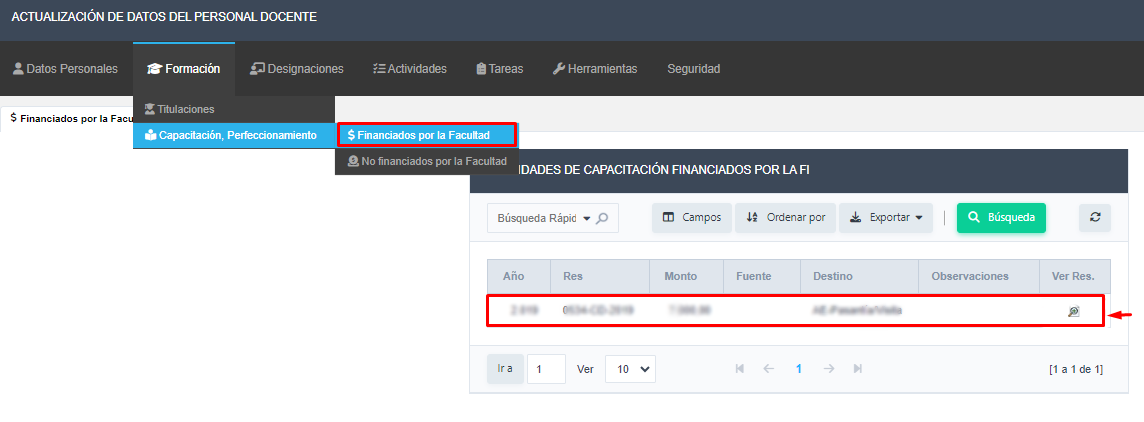
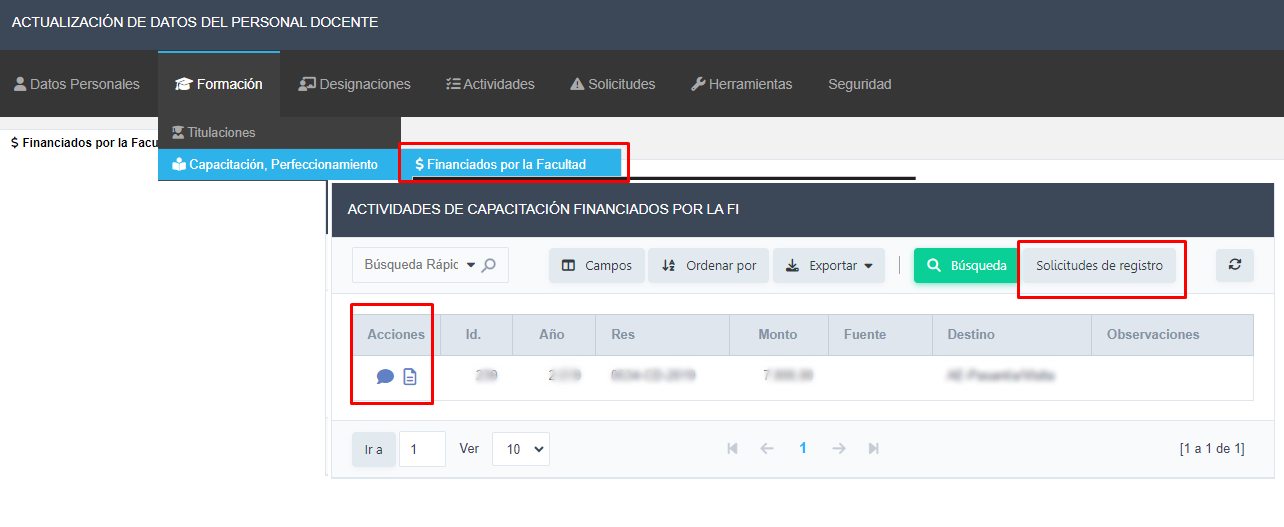
Cambios solicitados 1er avance

diff --git a/designaciones.html b/designaciones.html
@@ -19,17 +19,24 @@
         </li>
 
         <li>
-            <p>Para editar datos de una designación hacer clic en el icono de Edición <img src="images/btn_edicion.png" alt="Botón de edición">y visualizara la siguiente ventana</p>
+            <p>En la columna Acciones: Con el icono 
+                <img src="images/btn_solicitar_cambios.png" alt="botón solicitar cambios"> 
+                puede iniciar la gestión para solicitar cambios del Ítem en cuestión. y con el icono 
+                <img src="images/btn_edicion.png" alt="Botón de edición"> 
+                podrá editar la información  se visualizará la siguiente ventana
+
+            </p>
             <img src="images/designacion_editar.png" alt="">
         </li>
-        <li>
-            <p>Se deben registrar las horas dedicadas a cada actividad. Según Res. 0329-CD-2003 "Reglamento para la asignación y control de tareas docentes”. Si necesita información sobre qué datos corresponde a los campos: Docencia, Investigación, Gestión, Extensión, Tesis, Tutorías u otras operaciones, haga clic en el icono de ayuda. En Total de hs. visualizara la sumatoria de horas de los campos anteriores</p>
-            <img src="images/designaciones_horas.png" alt="">
-            <p>En las pestañas <em>"Situación", "Asignaturas", "Cargo" e "Imputación"</em>, podrá ver la información asociada.</p>
-        </li>
-        <li>
-            <p>Para finalizar el registro de tareas hacer clic en el Botón Guardar.</p>
-        </li>
+       <li>
+        <p>Se deben registrar las horas dedicadas a cada actividad. Según <a href="http://bo.unsa.edu.ar/cding/R2003/R-CDI-2003-0329.html" target="_blank">Res. 0329-CD-2003</a>  "Reglamento para la asignación y control de tareas docentes”. Si necesita información sobre cómo completar los campos: Docencia, Investigación, Gestión, Extensión, Tesis, Tutorías u otras operaciones, haga clic en el icono de ayuda. El Total de hs. visualizará la sumatoria de horas de los campos anteriores.</p>
+       </li>
+       <li>
+        <p>En las pestañas "Situación", "Asignaturas", "Cargo" e "Imputación", podrá ver la información asociada.</p>
+       </li>
+       <li>
+        <p>Para finalizar el registro de tareas hacer clic en el Botón Guardar.</p>
+       </li>
     </ol>
     
 </body>

diff --git a/formacion_capacitacion_financiado_por_la_facultad.html b/formacion_capacitacion_financiado_por_la_facultad.html
@@ -8,10 +8,18 @@
 <body>
     <ol>
         <h1>Instructivo carga de datos acreditación</h1>
-        <h2>Pasos para la modificacion y consulta de Capacitación y Perfeccionamiento</h2>
+        <h2>Pasos para la modificacion y consulta de Capacitación y Perfeccionamiento financiado por la Facultad</h2>
         <li>
-            <p>En el ítem de menú <em>Formación -> Capacitación, Perfeccionamiento -> Financiado por la Facultad</em>, podrá observar los registros de capacitaciones en las que solicito ayuda económica al fondo de capacitación docente o a la escuela.</p>
+            <p>En el ítem de menú Formación > Capacitación, Perfeccionamiento > Financiado por la Facultad, podrá observar las capacitaciones por las que recibió ayuda económica del Fondo de Capacitación Docente o por parte de la Escuela correspondiente.</p>
             <img src="images/financiamiento.png" alt="Ventana que muestra el registro de financiamientos que el usuario solicitó">            
+        </li>
+        <li>
+            <p>En la columna Acciones: Con el icono Solicitar cambios o eliminar el registro correspondiente. y con el icono  podrá visualizar la resolución correspondiente.</p>
+        </li>
+        <li>
+            <p>En caso de notar que falta algún registro, haciendo uso del Botón Solicitudes de Registro, podrá enviar a los administradores datos relevantes para agregar un nuevo registro financiado por la Facultad.</p>
+            <img src="images/financiamiento_nueva_solicitud.png" alt="Nueva solicitud">
+            <p>Para finalizar la carga debe hacer clic en el icono de tilde, su solicitud quedará pendiente, y será procesada por personal administrativo.</p>
         </li>
     </ol>
     

diff --git a/formacion_capacitacion_no_financiado_por_la_facultad.html b/formacion_capacitacion_no_financiado_por_la_facultad.html
@@ -8,14 +8,14 @@
 <body>
     <ol>
         <h1>Instructivo carga de datos acreditación</h1>
-        <h2>Pasos para el modificacion y consulta de Capacitación y Perfeccionamiento</h2>
+        <h2>Pasos para el modificación y consulta de Capacitación y Perfeccionamiento No Financiado por la Facultad</h2>
         <li>
-            <p>En el ítem de menú Formación -> Capacitación, Perfeccionamiento -> No Financiado por la Facultad, podrá ver, editar, borrar y registrar nuevas capacitaciones con financiamiento propio o distintos a la facultad.</p>
+            <p>En el ítem de menú Formación > Capacitación, Perfeccionamiento > No Financiados por la Facultad, podrá visualizar, editar, borrar y registrar nuevas actividades de perfeccionamiento realizadas con financiamiento propio o proveniente de entidades externas a la Facultad.</p>
             <img src="images/financiamiento_nofacultad.png" alt="Ventana que permite ver y agregar capacitaciones con financiamiento externo a la facultad">            
         </li>
         <li>
-            <p>Para agregar un nuevo registro hacer clic en el botón Nuevo. Y completar los campos necesarios.</p>
-            <img src="images/financiamiento_nuevo.png" alt="Ventana que permite agregar un nuevo registro">
+            <p>Para agregar un nuevo registro hacer clic en el botón Nuevo y completar los campos necesarios, para finalizar la carga hacer clic en el botón Agregar</p>
+            <img src="images/financiamiento_nofacultad_nuevo.png" alt="Ventana que permite agregar un nuevo registro">
         </li>
     </ol>
     

diff --git a/datos_personales.html b/datos_personales.html
@@ -18,6 +18,14 @@
             <p>Revisar y controlar sus datos personales en cada pestaña: <em>General, Curriculum Docente, Contacto y Contacto de Emergencia</em> En caso de actualizar su información hacer clic en el botón <em>Guardar</em></p>
             <img src="images/datos_personales_carga.png" alt="Carga de datos personales">
         </li>
+        <li>
+            <p>En la pestaña Curriculum Docente, según especifica CONEAU Global: 
+                Cada docente que se vincule con las carreras que se presentan a acreditación, deberá crear su cuenta en CONEAU Global y completar su currículum. Los docentes podrán completar el Currículum CONEAU, o bien utilizar el currículum unificado CVar.
+                En el siguiente enlace tiene disponible, un instructivo de carga del CV en CONEAU Global. Para acceder al mismo, haga click  
+                <a href="https://docs.google.com/document/d/1m3AKILBMFTJEQSaP0XGK-uUfY9kjTv9N/edit" target="_blank">aqui</a>
+            </p>
+            <img src="images/datos_personales_cv.png" alt="CV docente">
+        </li>
     </ol>
     
 </body>

diff --git a/index.html b/index.html
@@ -40,7 +40,7 @@
         <li class="list-group-item list-group-item-dark">Actividades
             <ul class="list-group">
                 <li class="list-group-item list-group-item-primary">
-                    Investicación+D+I 
+                    Investicación I+D+I 
                     <ul class="list-group">
                         <li class="list-group-item list-group-item-secondary"><a href="idi_categorizacion.html">Categorización</a></li>
                         <li class="list-group-item list-group-item-secondary"><a href="idi_proyectos.html">Proyectos I+D+I</a></li>
